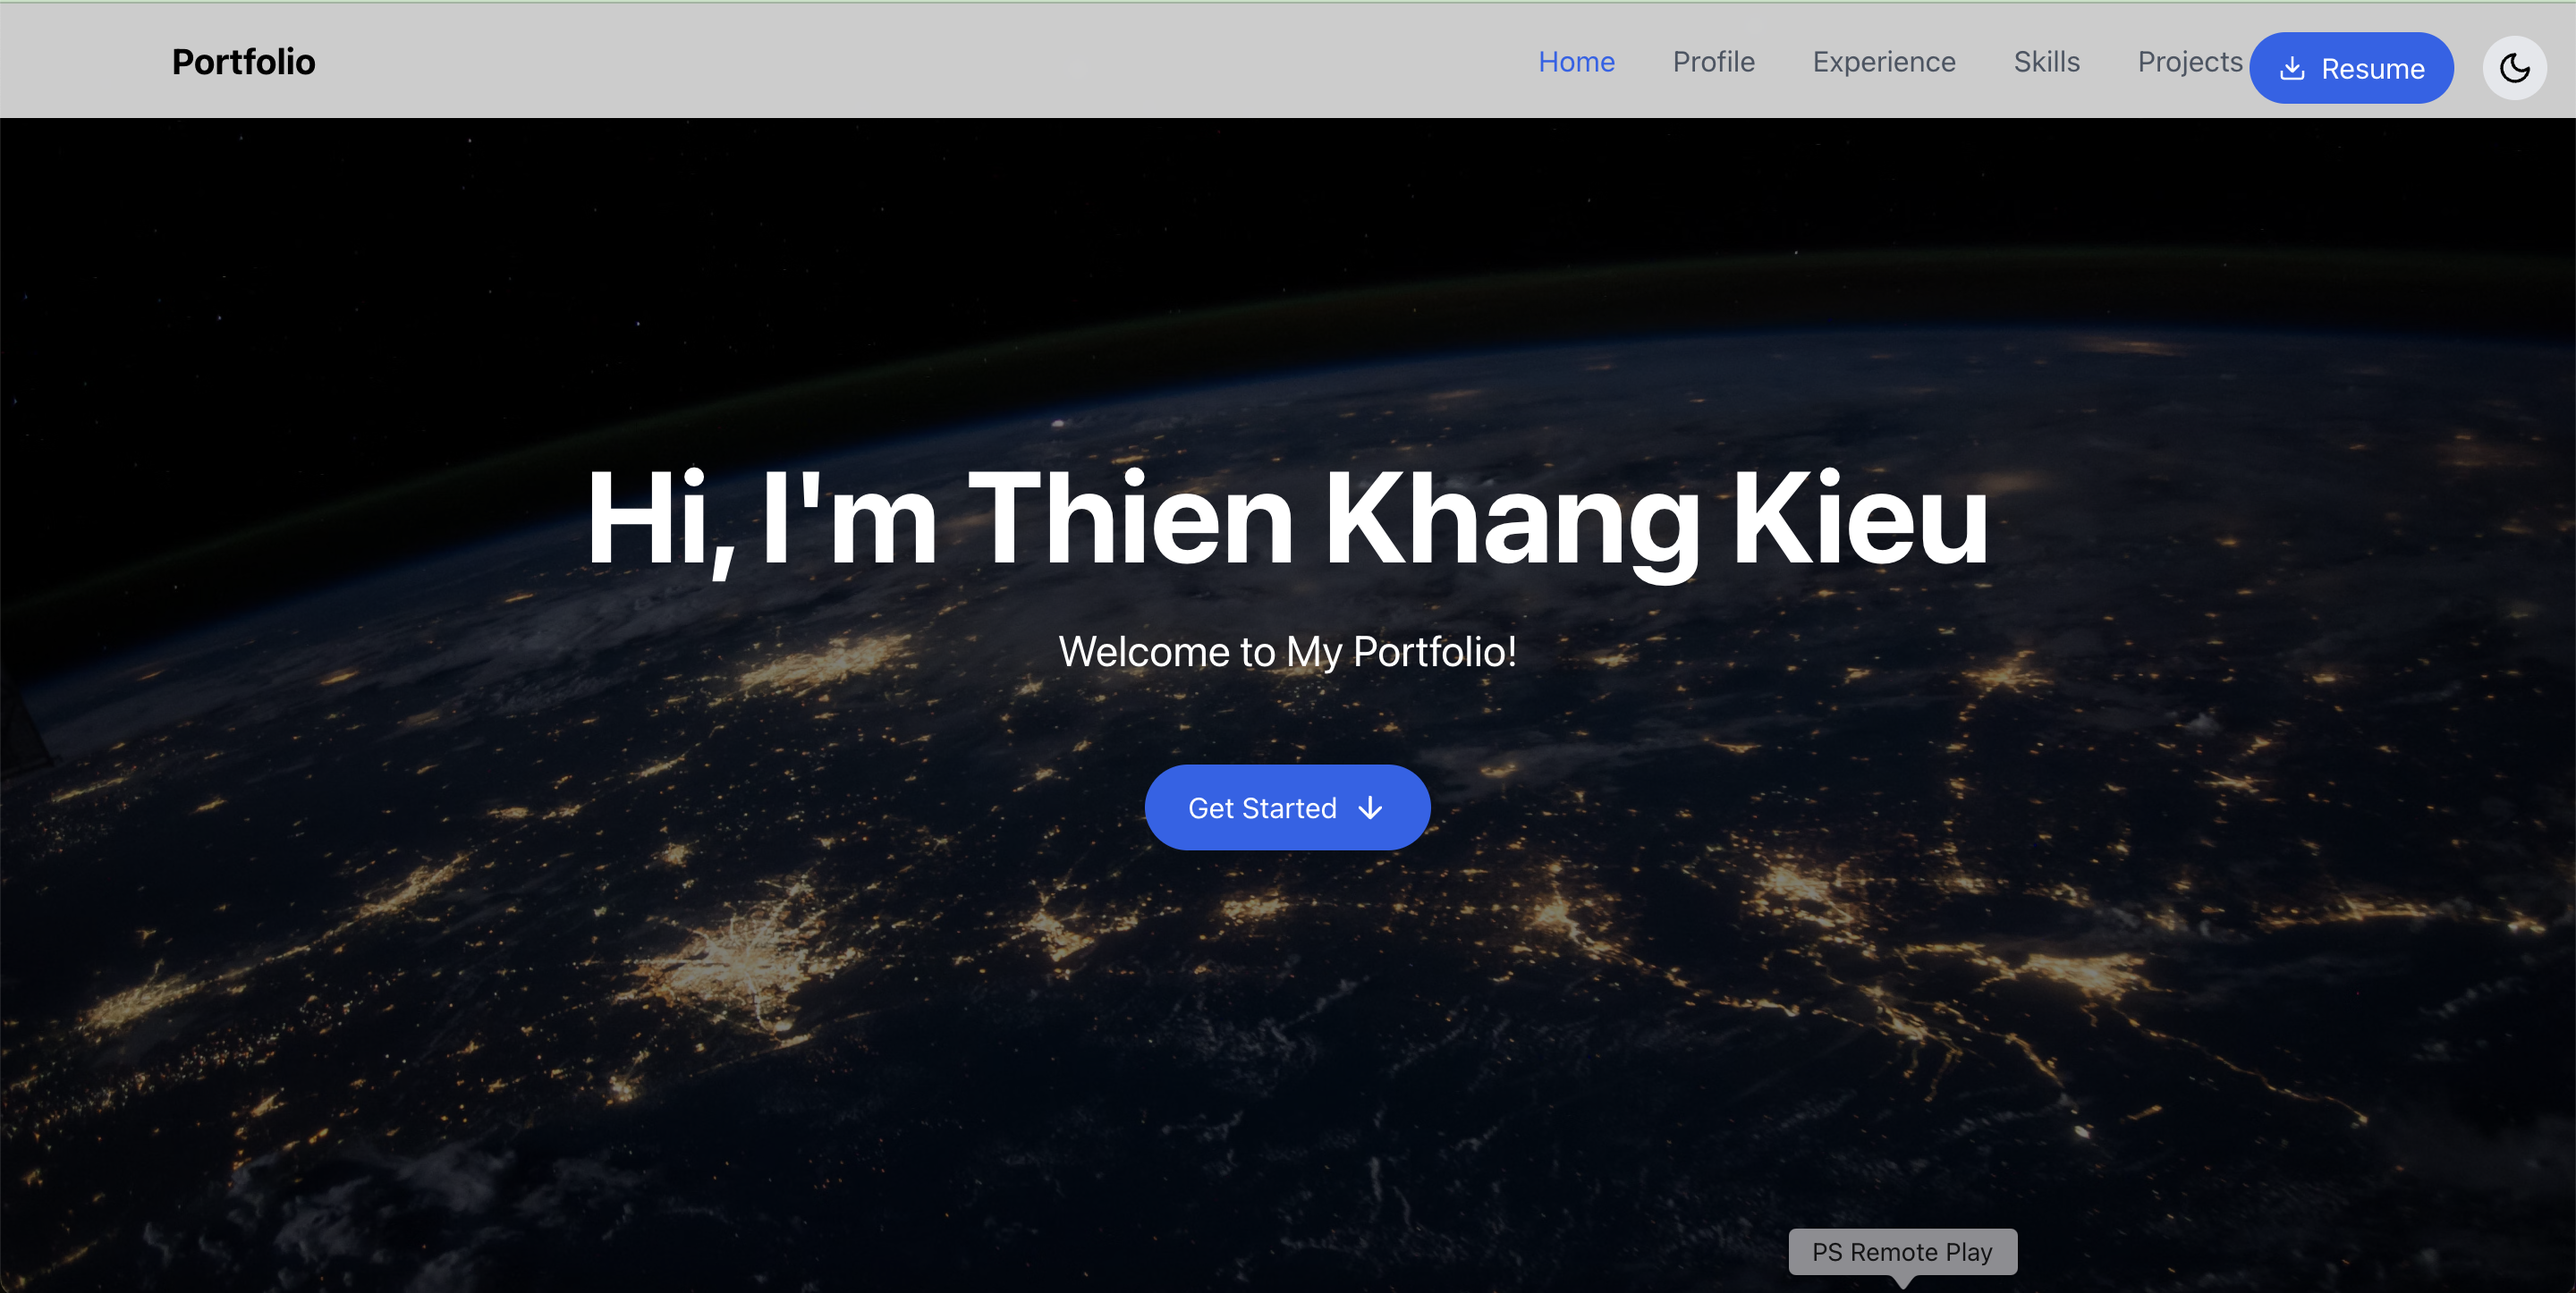
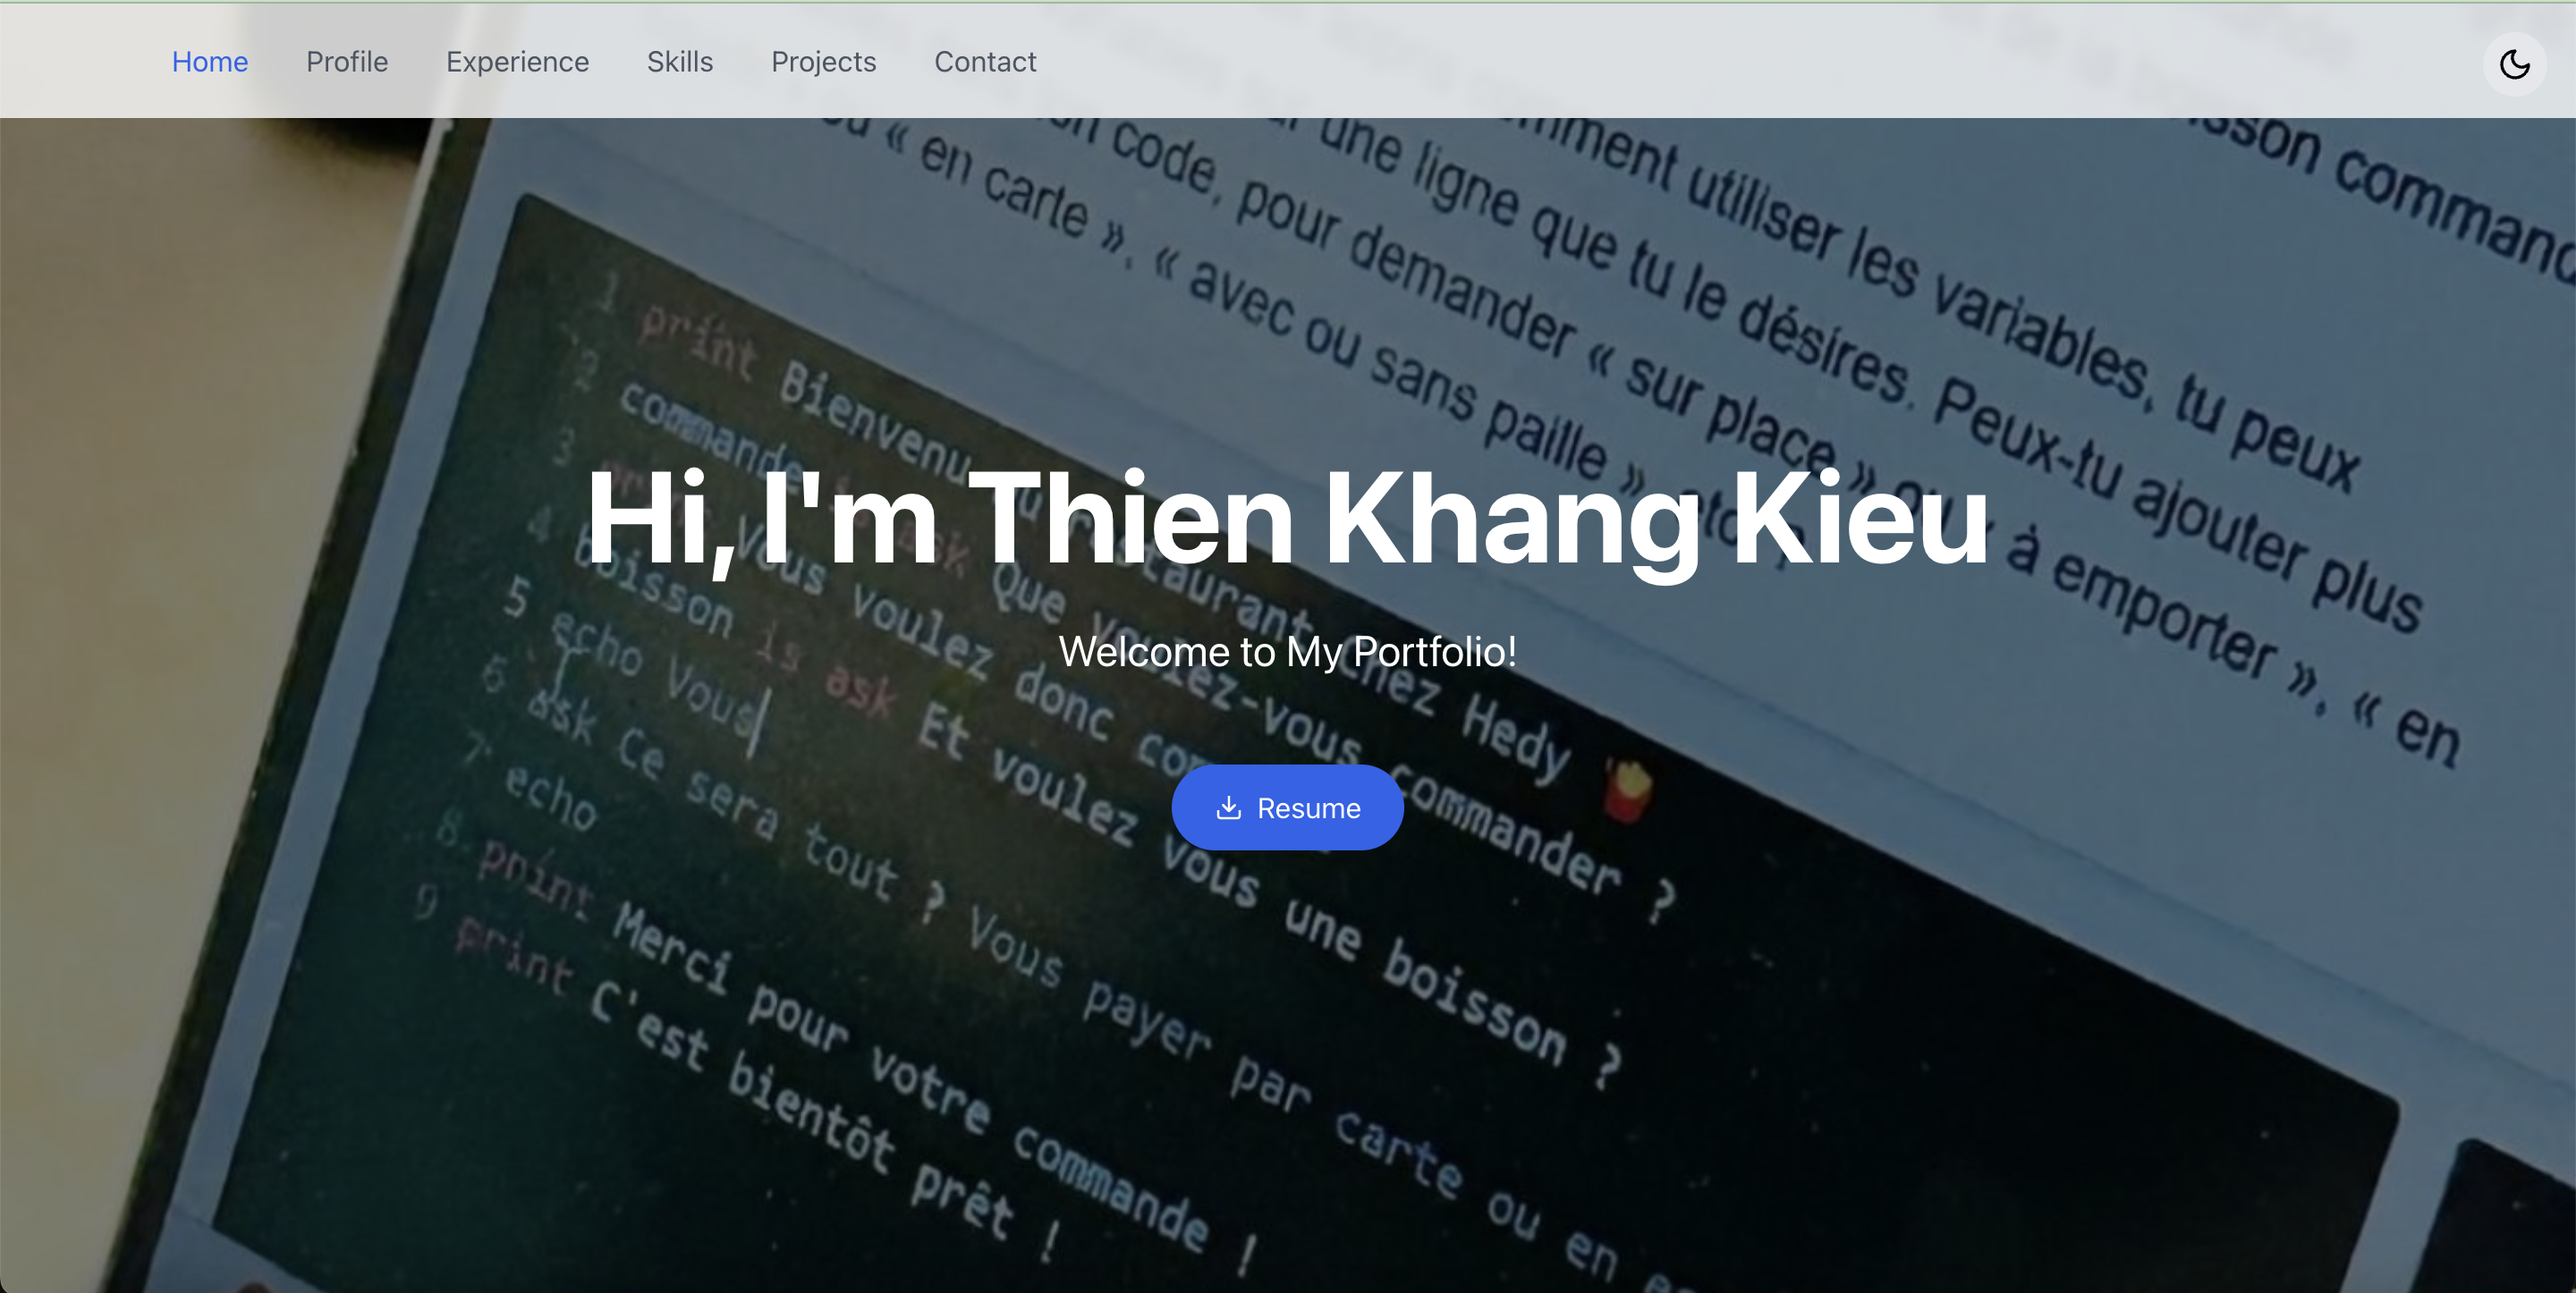
Update ReadMe and change demo photo

diff --git a/README.md b/README.md
@@ -1,88 +1,49 @@
 # TKK Portfolio 🎨🚀
 
-Welcome to **TKK Portfolio**, a modern and responsive personal portfolio website built with **HTML, CSS, and JavaScript**. This project showcases my skills, work experience, and projects in an interactive and visually appealing way.
+Welcome to **TKK Portfolio**, my personal portfolio website showcasing my **skills, experience, and projects** in a modern and interactive way.
 
 ![Portfolio Preview](./src/components/images/portfolio.png)
 
-## 🔗 Live Demo
+## 🔗 Live Portfolio
 
-🚀 [View Live Portfolio](http://localhost:5173/)
+🚀 [View My Portfolio](your-live-portfolio-link-here)
 
 ---
 
-## 📌 Features
+## 📌 Key Features
 
-✅ **Fully Responsive Design** – Works seamlessly on all devices.  
-✅ **Smooth Scroll & Navigation** – Easy access to different sections.  
+✅ **Fully Responsive Design** – Optimized for all screen sizes.  
+✅ **Smooth Scroll & Navigation** – Easily browse different sections.  
 ✅ **Interactive Elements** – Hover effects, animations, and transitions.  
-✅ **Projects Showcase** – Organized layout with GitHub/live links.  
-✅ **Skills & Experience Section** – Displays expertise and background.  
-✅ **Dark Mode Toggle** (if applicable).  
-✅ **Downloadable Resume** – Easy access to my CV.
+✅ **Projects Showcase** – Explore my past work with GitHub/live links.  
+✅ **Skills & Experience Section** – Highlights my technical expertise.  
+✅ **Dark Mode Toggle** – Improved user experience.  
+✅ **Downloadable Resume** – Quick access to my CV.
 
 ---
 
 ## 🛠 Technologies Used
 
-- **HTML5** – Semantic structure.
-- **CSS3** – Flexbox, Grid, Animations.
-- **JavaScript** – Interactivity, smooth scrolling.
-- **[Any Additional Libraries or Frameworks]** (if used, e.g., Bootstrap, GSAP).
+- **HTML5** – Semantic and structured content.
+- **CSS3** – Flexbox, Grid, Animations for modern styling.
+- **JavaScript (ES6+)** – Enhancing interactivity.
+- **React & Tailwind CSS** (if applicable) – For a dynamic and responsive UI.
 
 ---
 
-## 💀 Project Structure
+## 🎯 Future Enhancements
 
-```
-TKKportfolio/
-│── index.html            # Main HTML file
-│── styles/               # CSS stylesheets
-│   ├── main.css
-│── scripts/              # JavaScript files
-│   ├── main.js
-│── assets/               # Images, icons, and fonts
-│── README.md             # This file
-```
+🔹 Add more **projects and case studies**.  
+🔹 Optimize **performance & accessibility**.  
+🔹 Enhance animations and interactive elements.
 
 ---
 
-## 🚀 Getting Started
-
-To run this project locally:
-
-1. Clone the repository:
-   ```bash
-   git clone https://github.com/khandz0/TKKportfolio.git
-   ```
-2. Navigate to the project folder:
-   ```bash
-   cd TKKportfolio
-   ```
-3. Open `index.html` in your browser.
-
----
-
-## 🎯 To-Do / Future Improvements
-
-🔹 Add a **contact form** with email functionality.  
-🔹 Implement **light/dark mode toggle**.  
-🔹 Improve **animations & user interactions**.  
-🔹 Optimize for **better performance & accessibility**.
-
----
-
-## 💌 Connect With Me
+## 💼 Connect With Me
 
 📧 Email: kieuth24@gmail.com  
 🔗 [LinkedIn](https://www.linkedin.com/in/thienkhangkieu2606/) | [GitHub](https://github.com/khandz0)
 
 ---
 
-## 🏆 Contributions & Support
-
-Feel free to **fork**, **star**, and **contribute** to this project!  
-If you like this portfolio, consider giving it a ⭐ on GitHub!
-
----
-
-🚀 **Made with ❤ by Thien Khang Kieu**
+🚀 **Designed & Developed by Thien Khang Kieu**
